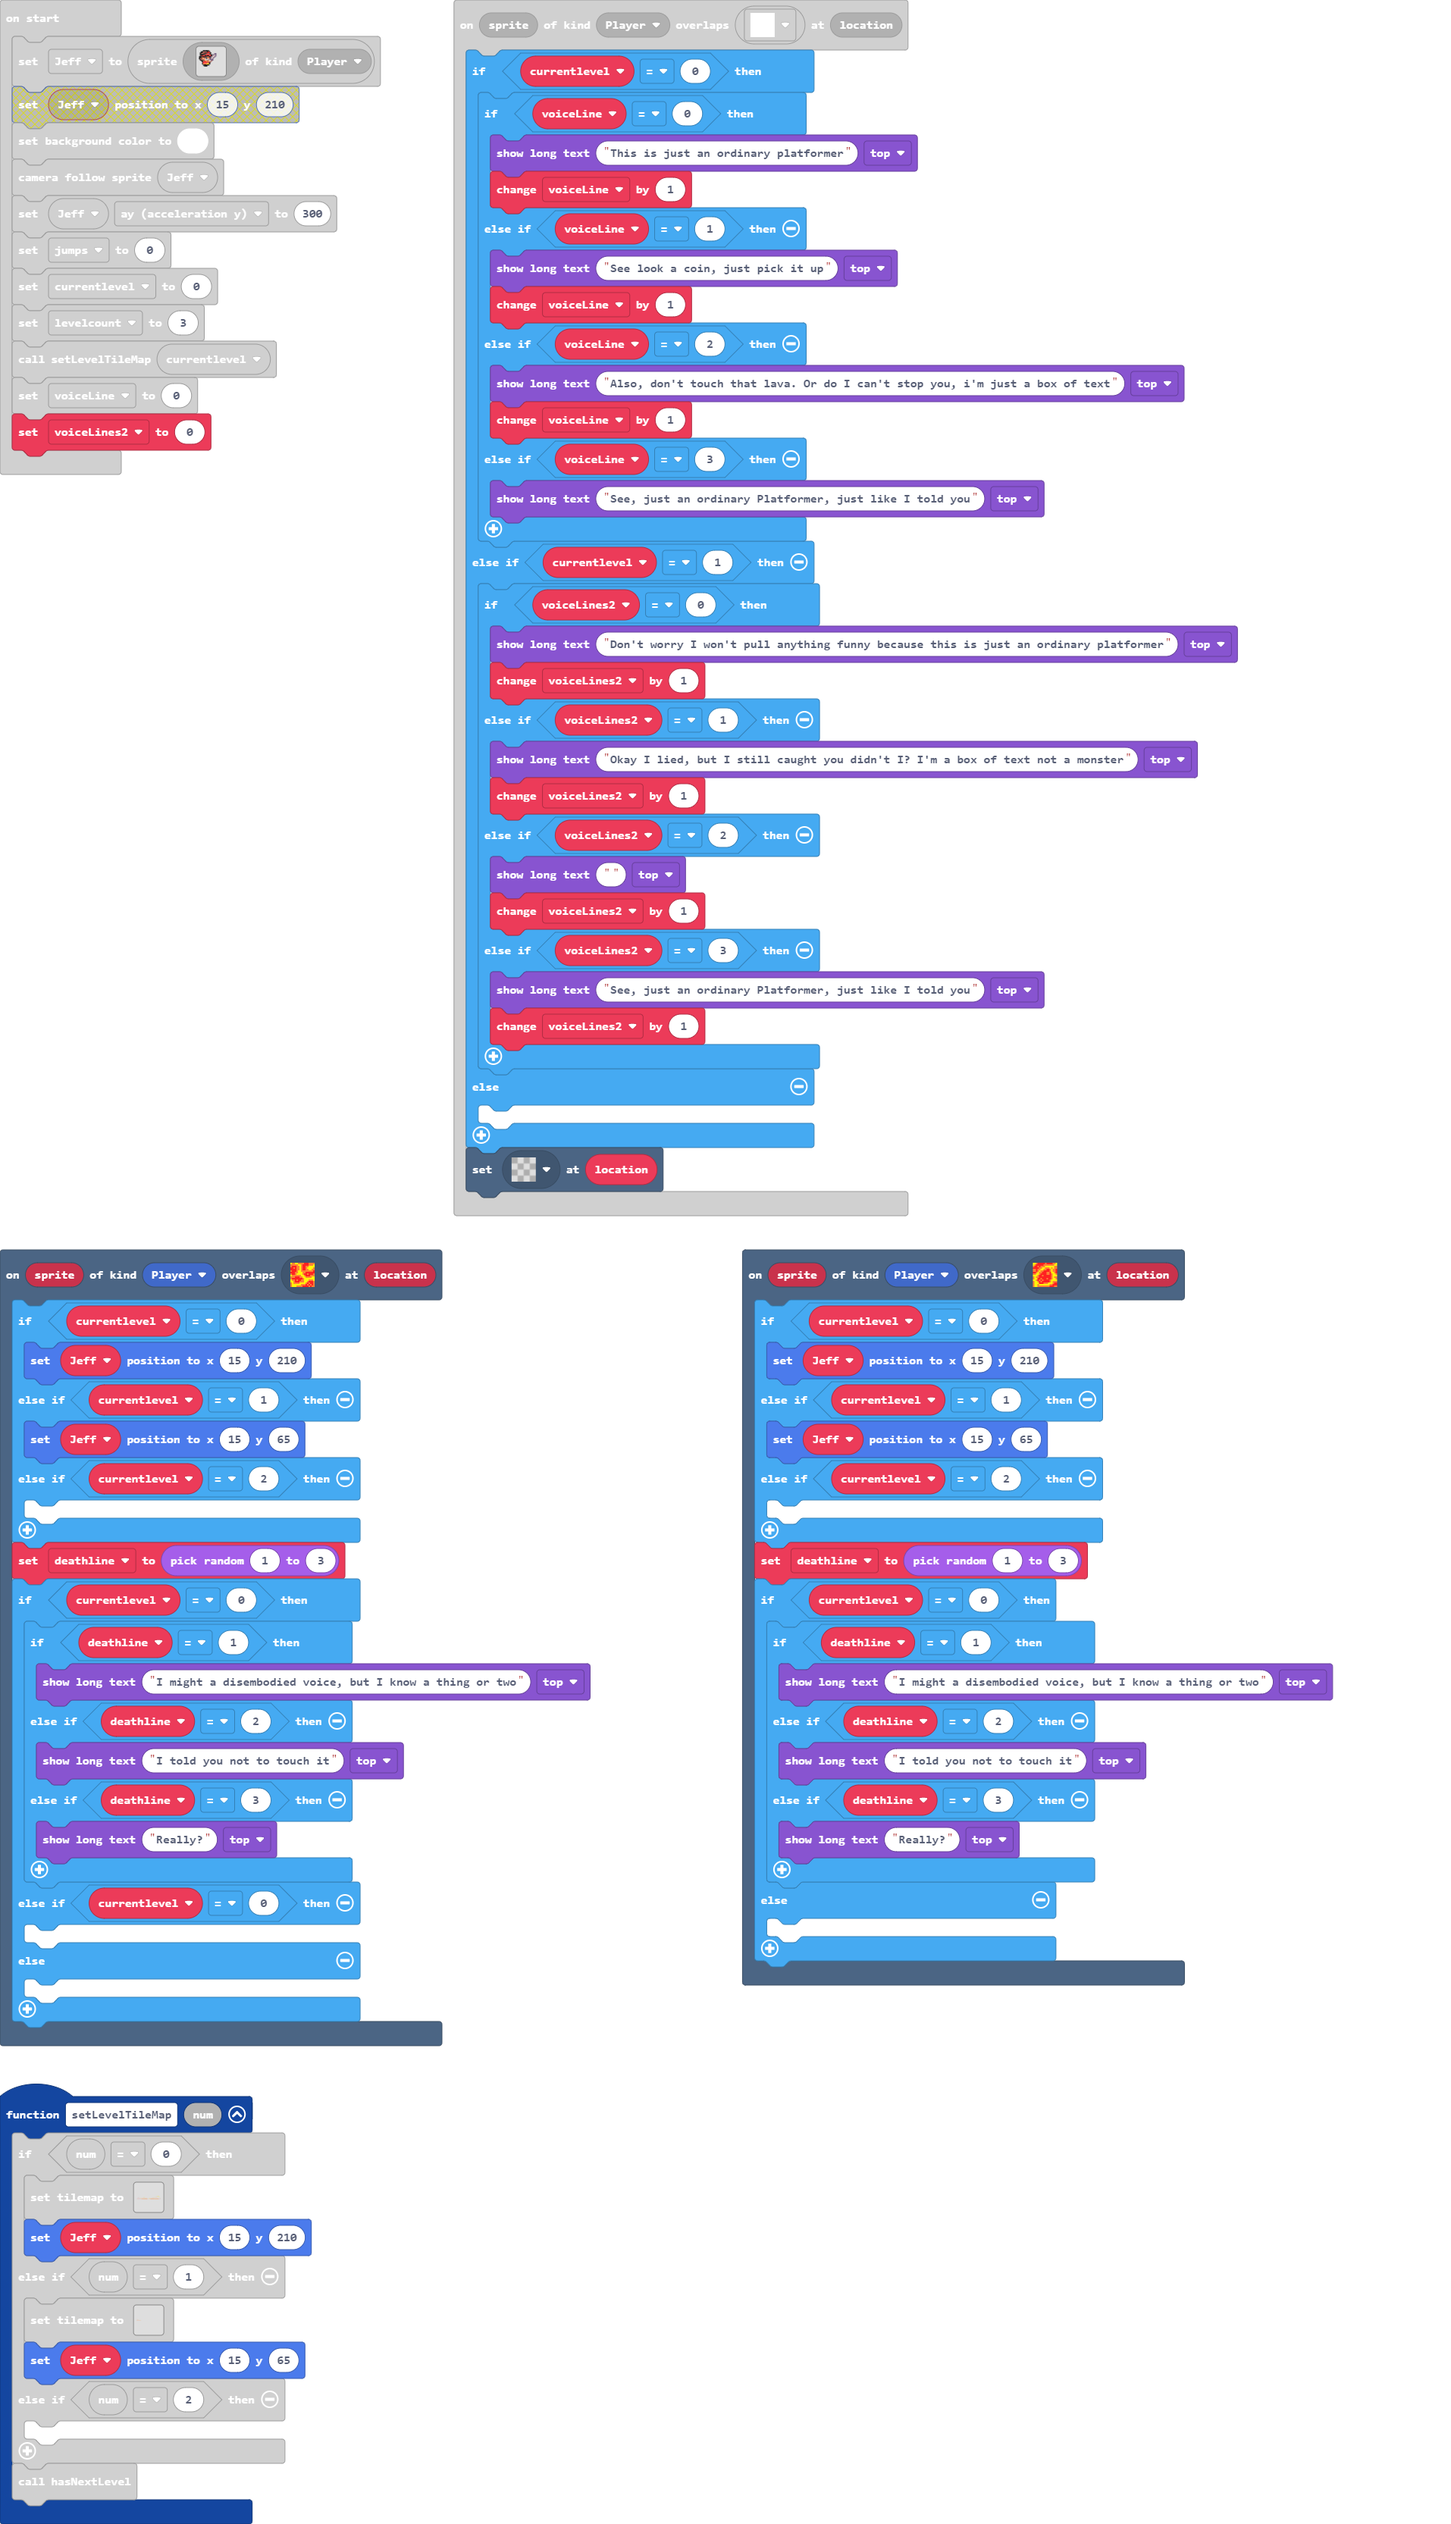
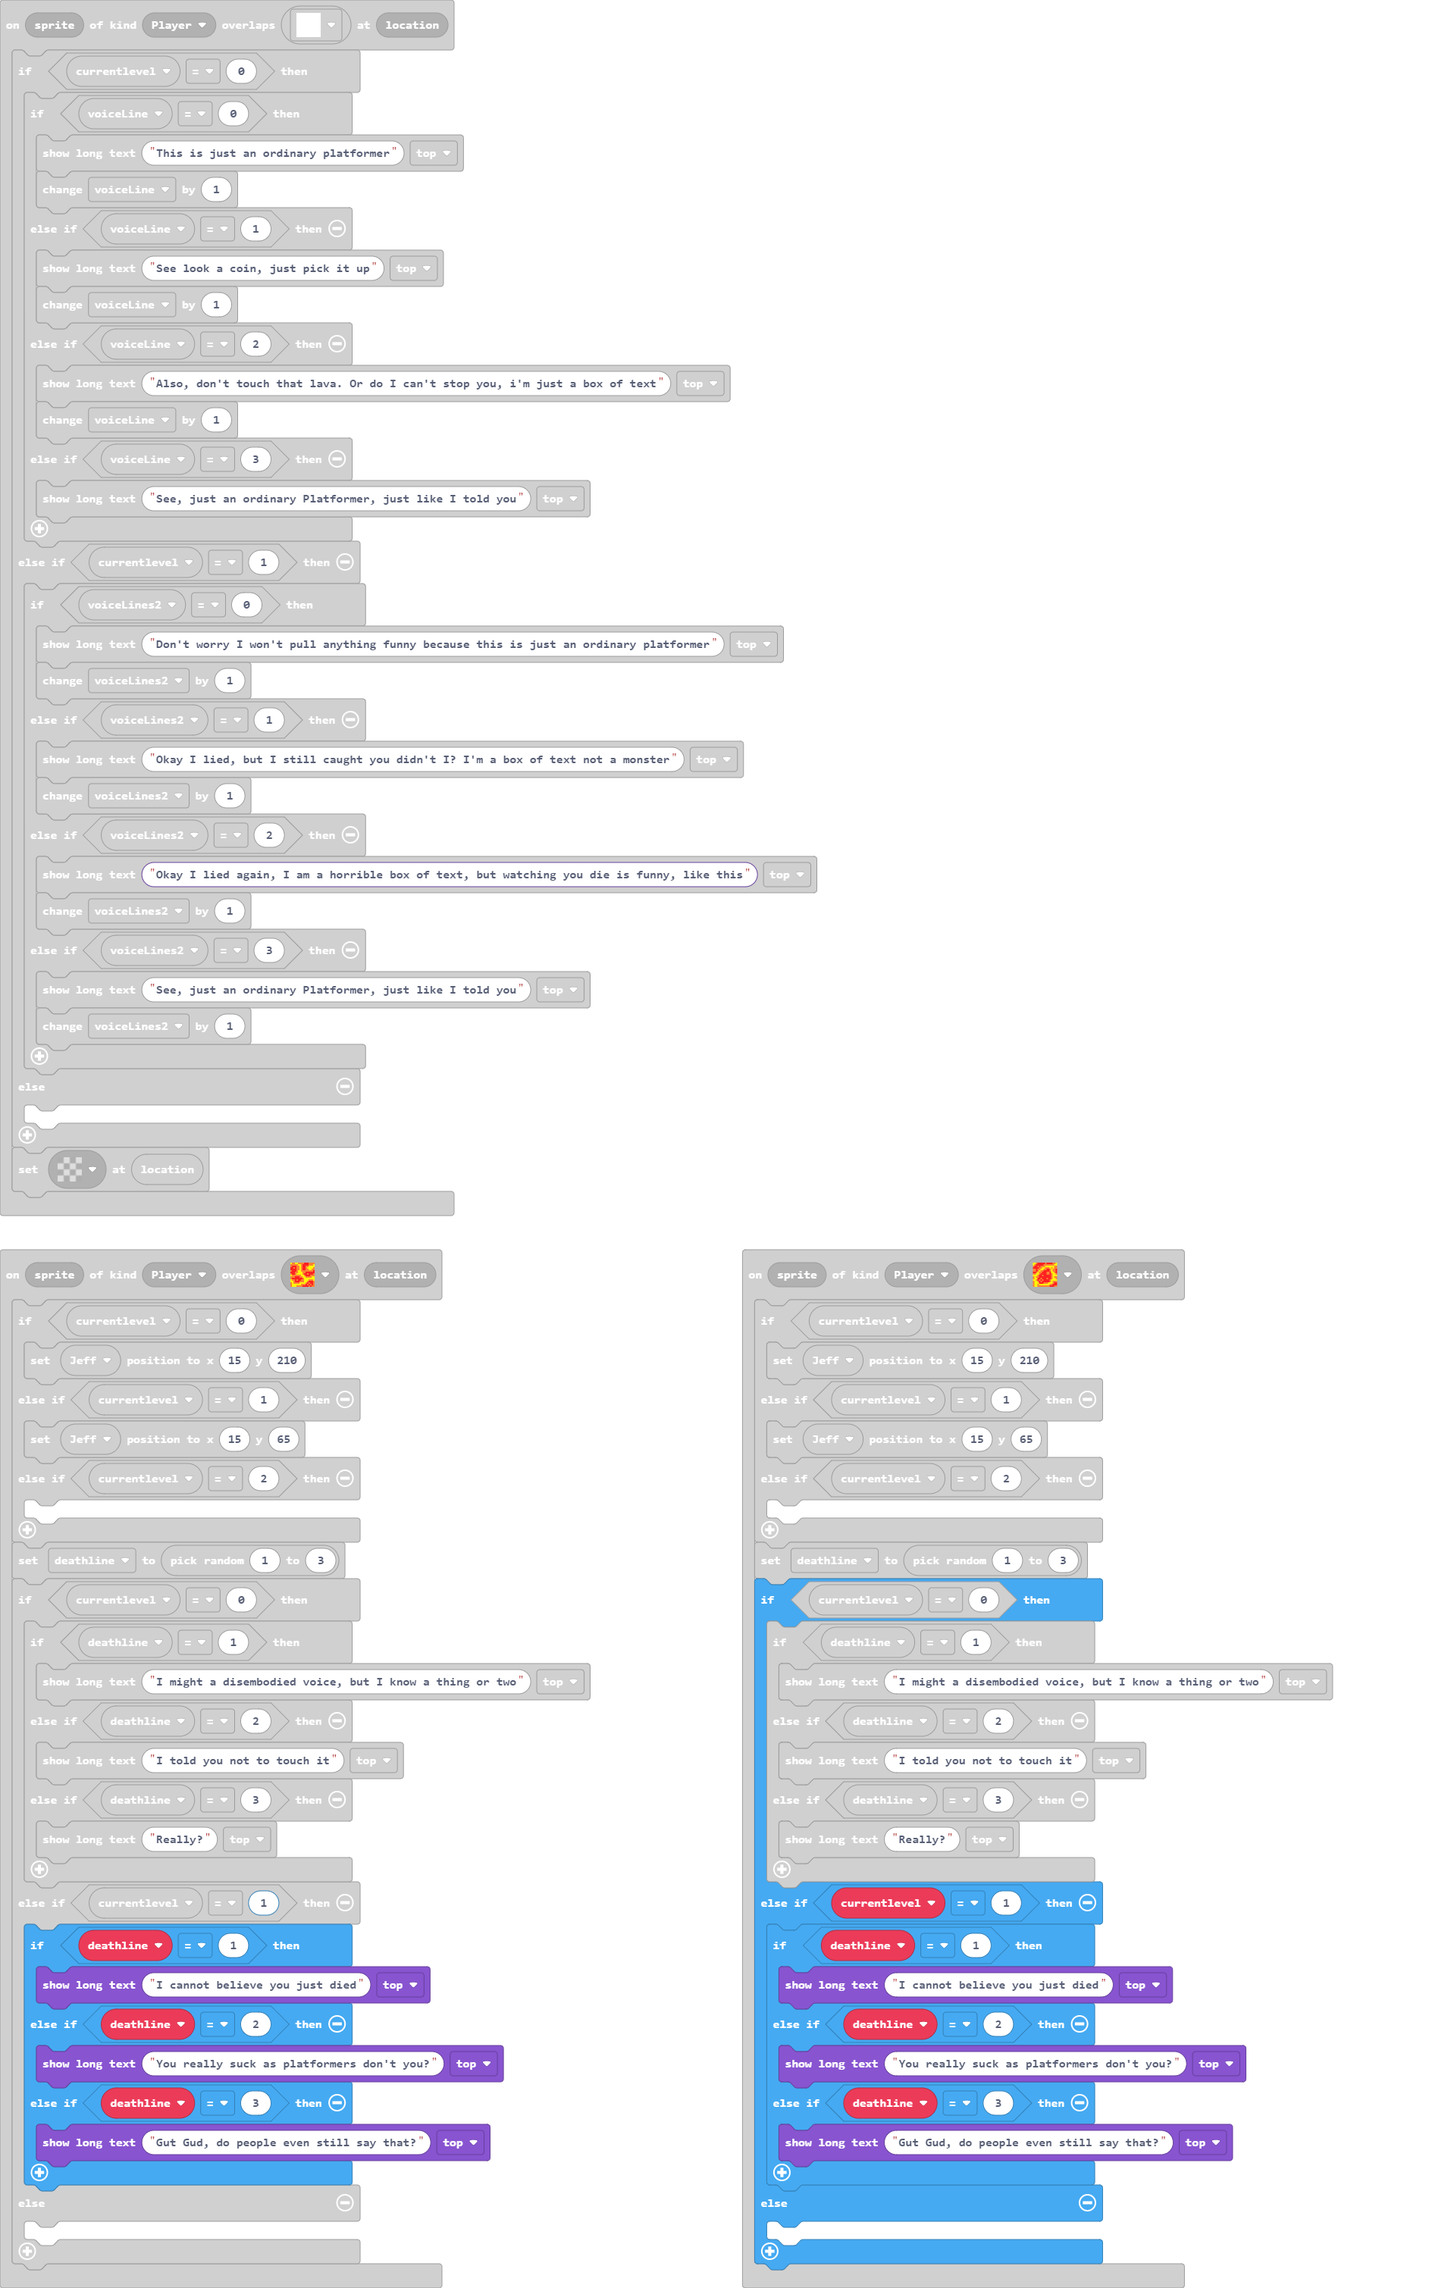
Update main.blocks, main.ts, tilemap.g.jres, tilemap.g.ts

diff --git a/tilemap.g.ts b/tilemap.g.ts
@@ -117,7 +117,7 @@ namespace myTiles {
 222222222222222222222........................222222222222..................................222222222
 `, [myTiles.transparency16,sprites.dungeon.floorLight0,myTiles.tile4,myTiles.tile5,myTiles.tile6,myTiles.tile7,myTiles.tile2,myTiles.tile1,myTiles.tile3], TileScale.Sixteen);
             case "level2":
[2 lines of base64/hex data omitted]
 ........................................................................................................................................................................................................
 ........................................................................................................................................................................................................
 ........................................................................................................................................................................................................

diff --git a/main.ts b/main.ts
@@ -20,7 +20,7 @@ scene.onOverlapTile(SpriteKind.Player, assets.tile`myTile0`, function (sprite, l
             game.showLongText("Okay I lied, but I still caught you didn't I? I'm a box of text not a monster", DialogLayout.Top)
             voiceLines2 += 1
         } else if (voiceLines2 == 2) {
-            game.showLongText("", DialogLayout.Top)
+            game.showLongText("Okay I lied again, I am a horrible box of text, but watching you die is funny, like this", DialogLayout.Top)
             voiceLines2 += 1
         } else if (voiceLines2 == 3) {
             game.showLongText("See, just an ordinary Platformer, just like I told you", DialogLayout.Top)
@@ -74,8 +74,14 @@ scene.onOverlapTile(SpriteKind.Player, assets.tile`myTile3`, function (sprite, l
         } else if (deathline == 3) {
             game.showLongText("Really?", DialogLayout.Top)
         }
-    } else if (currentlevel == 0) {
-    	
+    } else if (currentlevel == 1) {
+        if (deathline == 1) {
+            game.showLongText("I cannot believe you just died", DialogLayout.Top)
+        } else if (deathline == 2) {
+            game.showLongText("You really suck as platformers don't you?", DialogLayout.Top)
+        } else if (deathline == 3) {
+            game.showLongText("Gut Gud, do people even still say that?", DialogLayout.Top)
+        }
     } else {
     	
     }
@@ -96,6 +102,14 @@ scene.onOverlapTile(SpriteKind.Player, assets.tile`myTile2`, function (sprite, l
             game.showLongText("I told you not to touch it", DialogLayout.Top)
         } else if (deathline == 3) {
             game.showLongText("Really?", DialogLayout.Top)
+        }
+    } else if (currentlevel == 1) {
+        if (deathline == 1) {
+            game.showLongText("I cannot believe you just died", DialogLayout.Top)
+        } else if (deathline == 2) {
+            game.showLongText("You really suck as platformers don't you?", DialogLayout.Top)
+        } else if (deathline == 3) {
+            game.showLongText("Gut Gud, do people even still say that?", DialogLayout.Top)
         }
     } else {
     	
